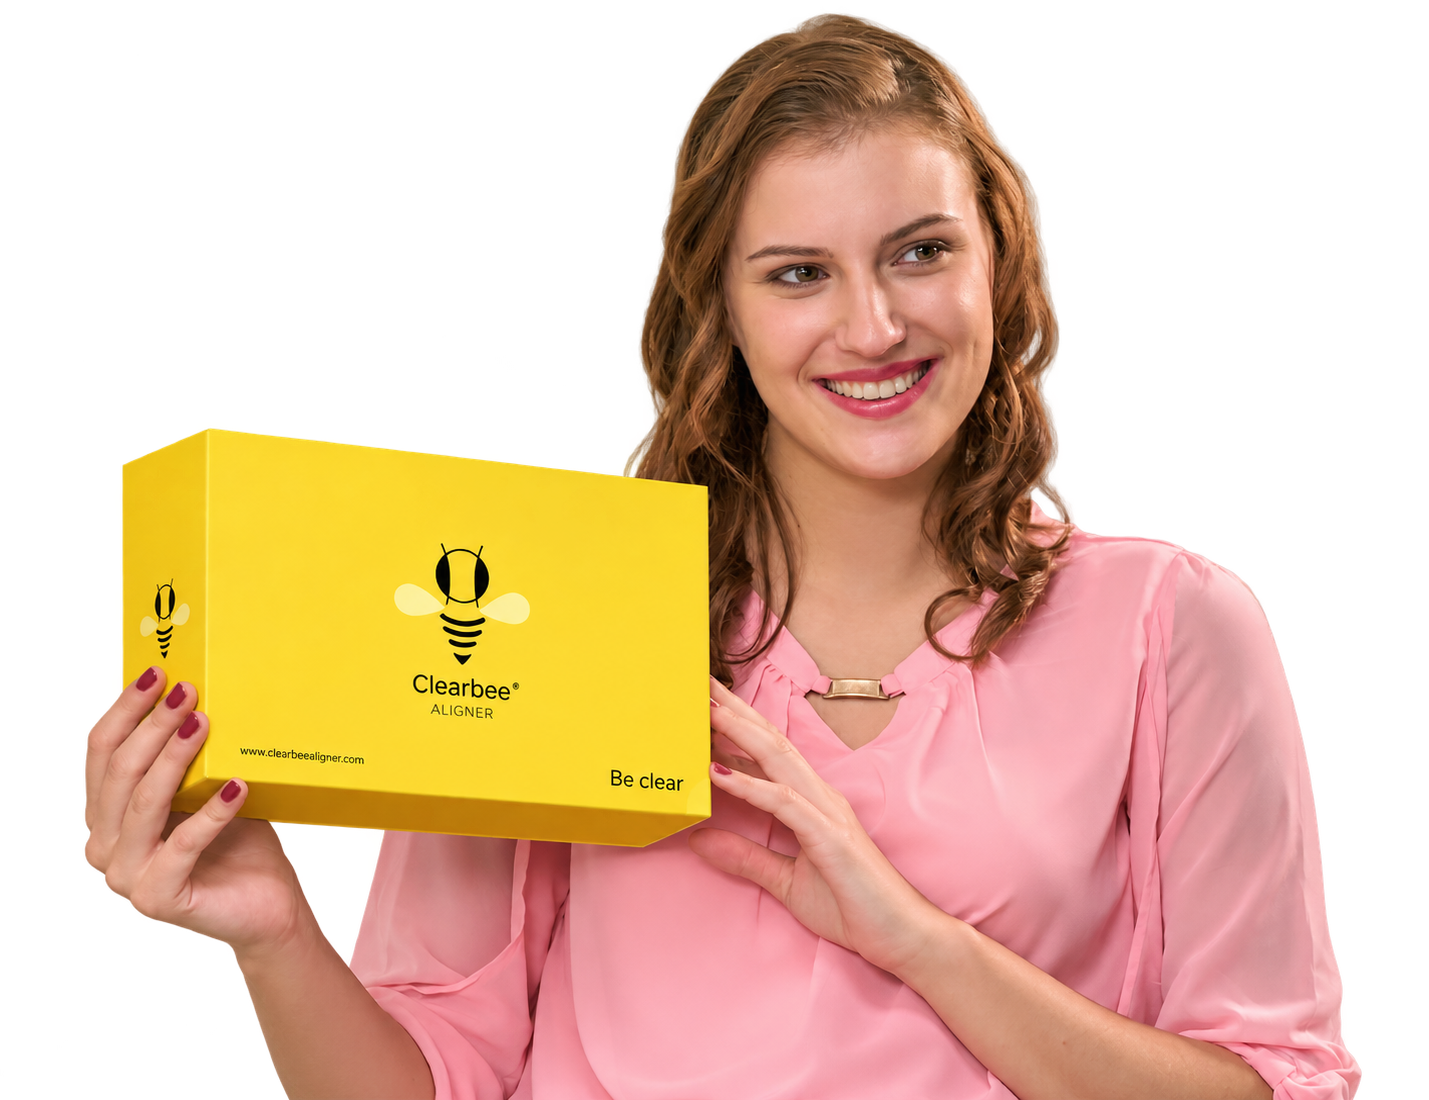
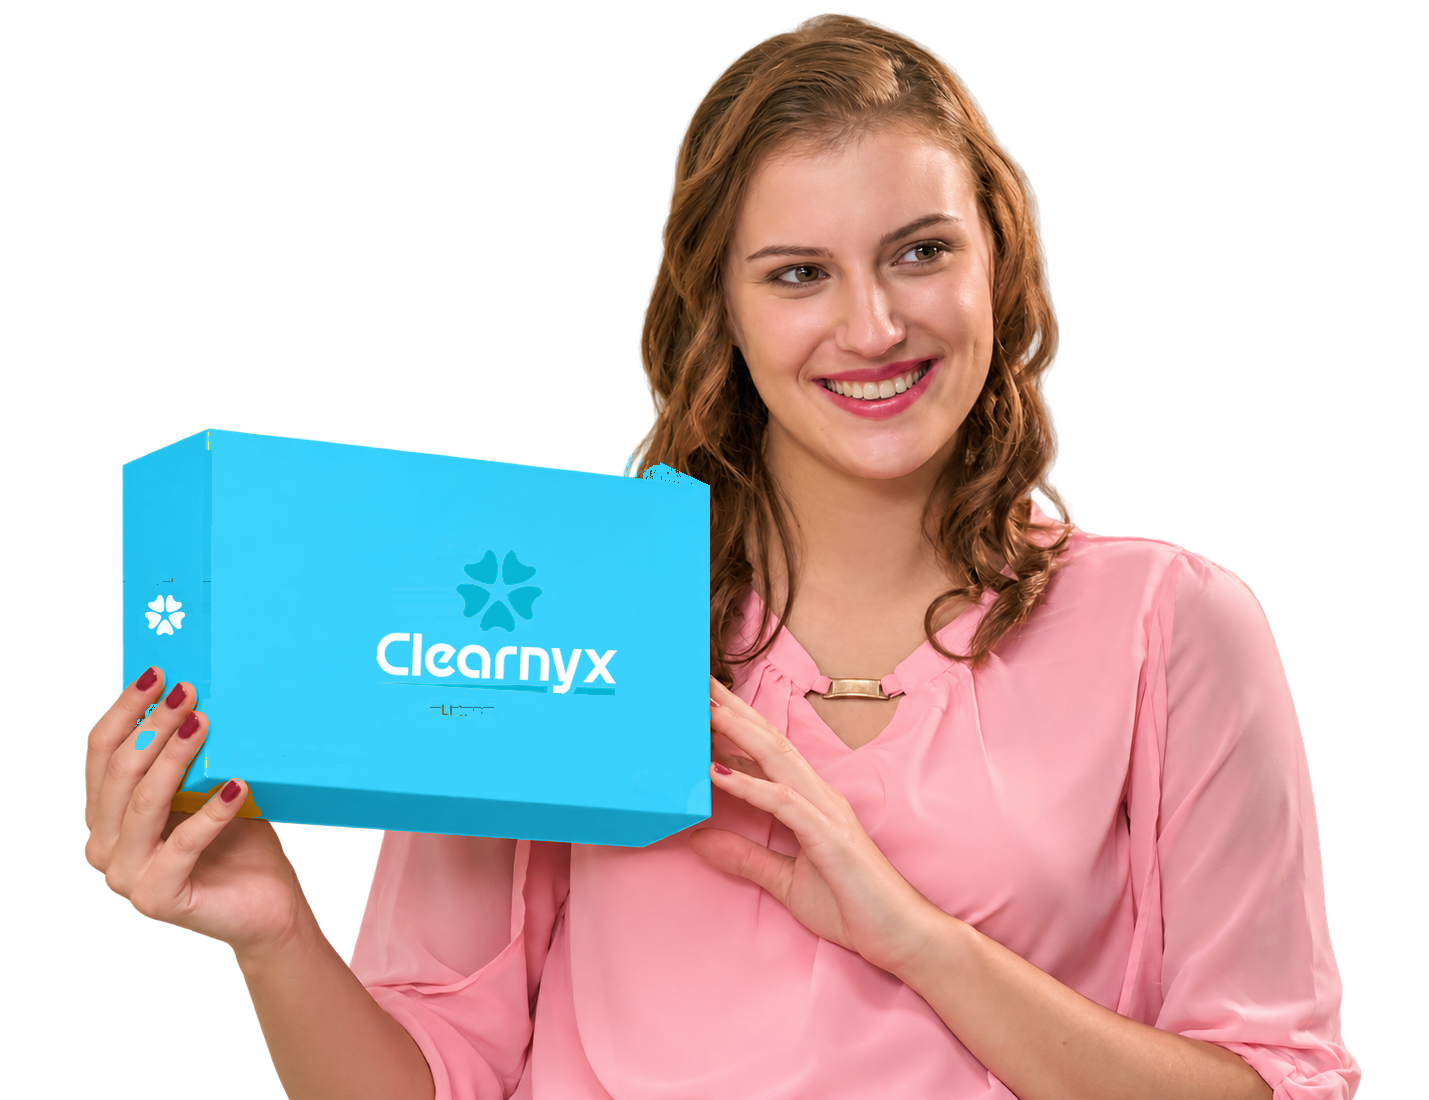
fix: resolve navbar overflow across all viewports and finalize photorealistic CLEARNYX hero branding

Changed region(s): [[0.0616, 0.3709, 0.5234, 0.7727]]

diff --git a/src/components/clearnyx/SiteHeader.tsx b/src/components/clearnyx/SiteHeader.tsx
@@ -75,13 +75,13 @@ export function SiteHeader() {
         }`}
       >
         <div
-          className={`max-w-7xl mx-auto rounded-full transition-all duration-300 border ${
+          className={`w-full max-w-7xl 2xl:max-w-[1360px] mx-auto rounded-full transition-all duration-300 border ${
             isScrolled
               ? "bg-white/95 backdrop-blur-xl border-[#E2EBF0] shadow-[0_12px_40px_rgba(7,27,44,0.08)] py-2 sm:py-2.5 px-3 sm:px-5 lg:px-6"
               : "bg-white/90 backdrop-blur-lg border-white/80 shadow-[0_8px_30px_rgba(7,27,44,0.05)] py-2 sm:py-3 px-3.5 sm:px-5 lg:px-6"
           } flex items-center justify-between gap-2 sm:gap-4`}
         >
-          {/* Brand Logo & Trust Tag */}
+          {/* Brand Logo */}
           <div className="flex items-center gap-3 shrink-0">
             <Link
               href="/"
@@ -95,15 +95,9 @@ export function SiteHeader() {
                 width={150}
                 height={32}
                 priority
-                className="h-6 sm:h-8 w-auto object-contain transition-transform duration-200 group-hover:scale-[1.02]"
+                className="h-6 sm:h-7 md:h-8 w-auto object-contain transition-transform duration-200 group-hover:scale-[1.02]"
               />
             </Link>
-
-            {/* Verified Clinical Badge (Visible on wider screens to prevent overflow) */}
-            <div className="hidden 2xl:flex items-center gap-1.5 pl-3 border-l border-[#E2EBF0] text-[11px] text-[#647887] font-medium">
-              <span className="w-1.5 h-1.5 rounded-full bg-[#00A6CE] animate-pulse" />
-              <span>CDSCO &amp; ISO 13485 Certified</span>
-            </div>
           </div>
 
           {/* Desktop Navigation Links */}

diff --git a/src/components/clearnyx/FaqCtaSection.tsx b/src/components/clearnyx/FaqCtaSection.tsx
@@ -94,13 +94,14 @@ export function FaqCtaSection() {
 
       {/* Right Column: CTA Box Card */}
       <aside className="lp-cta-card">
-        <div className="lp-cta-media relative w-full h-[220px] flex items-center justify-center">
+        <div className="lp-cta-media relative w-full h-[200px] flex items-center justify-center">
+          <div className="absolute w-44 h-44 bg-brand-cyan/20 rounded-full blur-2xl pointer-events-none" />
           <Image
-            src="/images/showcase/clearnyx-box.png"
-            alt="CLEARNYX Premium Packaging Box"
-            width={260}
-            height={200}
-            className="object-contain drop-shadow-2xl"
+            src="/images/showcase/aligner-cutout.png"
+            alt="CLEARNYX Precision Clear Aligner Tray"
+            width={240}
+            height={160}
+            className="relative z-10 object-contain drop-shadow-xl transition-transform duration-300 hover:scale-105"
           />
         </div>
 

diff --git a/src/app/clearnyx-theme.css b/src/app/clearnyx-theme.css
@@ -843,14 +843,14 @@
   height: 82px;
   transform: translate(-50%, -50%);
   z-index: 3;
-  opacity: 0.65;
+  opacity: 0.88;
   transition: opacity 0.3s, transform 0.3s;
 }
 
 .lp-life-moment.is-active,
 .lp-life-moment:hover {
   opacity: 1;
-  transform: translate(-50%, -50%) scale(1.06);
+  transform: translate(-50%, -50%) scale(1.08);
 }
 
 .lp-life-moment-inner {
@@ -1548,6 +1548,18 @@
   .comparison-stage {
     min-height: 240px;
     border-radius: 14px;
+  }
+
+  /* Testimonials */
+  .lp-testimonial {
+    max-width: 100%;
+    padding: 24px 20px 20px;
+  }
+
+  /* CTA card */
+  .lp-cta-card {
+    padding: 24px 18px;
+    gap: 20px;
   }
 
   /* Mobile Drawer Safe Insets */
